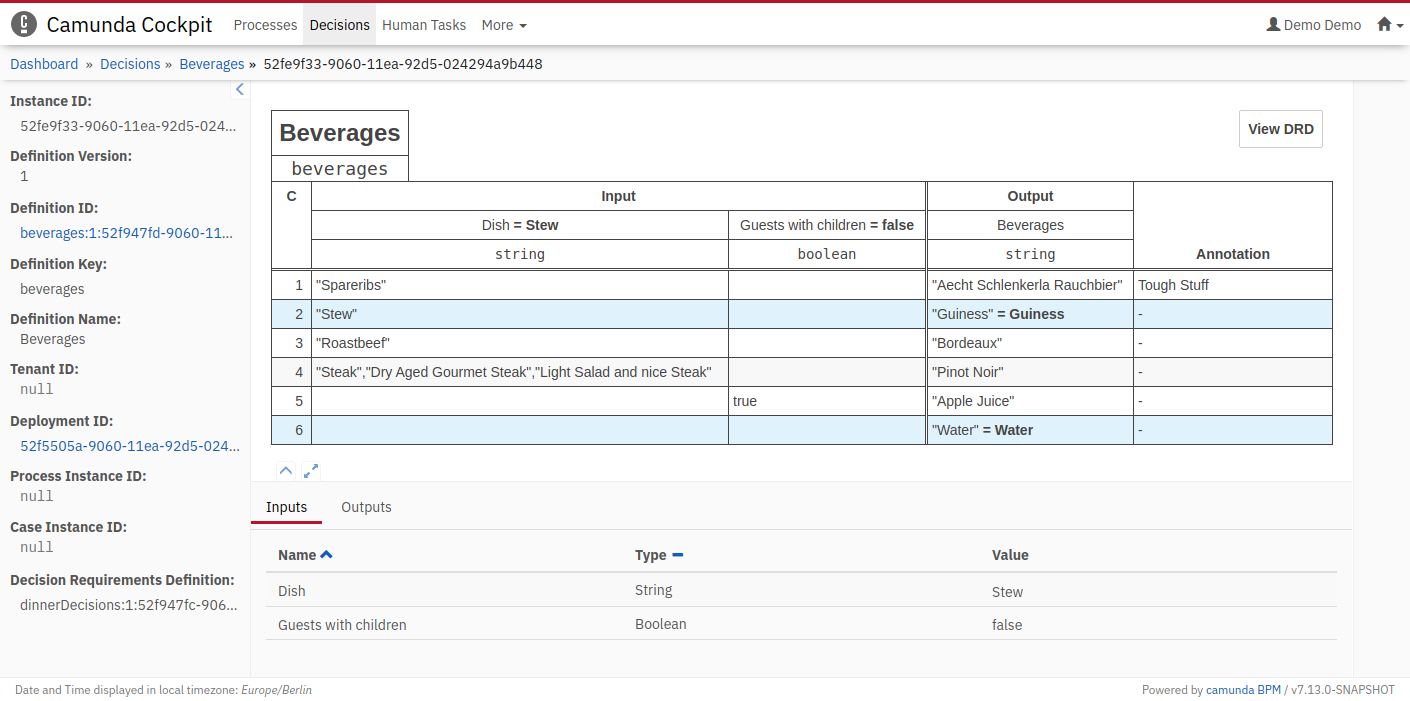
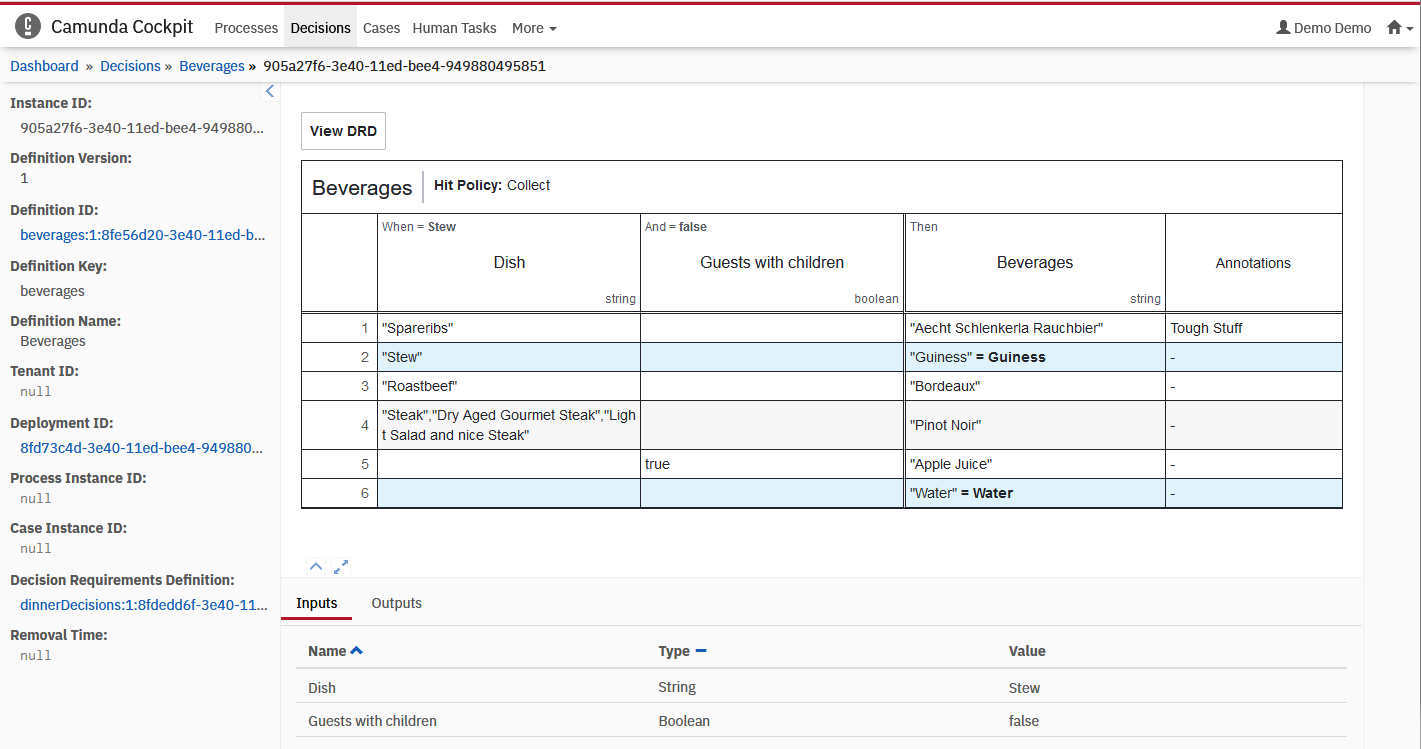
chore(get-started): update dmn guide for 7.18.0
update Cockpit screeshots to include Removal time in Decisions page

Related to CAM-14542

diff --git a/get-started/content/dmn/deploy.md b/get-started/content/dmn/deploy.md
@@ -107,7 +107,7 @@ Congratulations, you have now successfully set up a project with your first DMN 
 Next,
 
 * see how you can evaluate the decision using the [REST API](/manual/reference/rest/decision-definition/post-evaluate/),
-* learn more about DMN by reading the [DMN Reference](/manual/reference/dmn11/),
+* learn more about DMN by reading the [DMN Reference](/manual/reference/dmn/),
 * learn more about the [Decision API exposed by Camunda Process Engine](/manual/user-guide/process-engine/decisions/),
 * check how you can invoke the decision from a [BPMN Business Rule Task](/manual/reference/bpmn20/tasks/business-rule-task/),
 * Bonus Step: [Decision Requirements Graph](../drg) 

diff --git a/get-started/content/dmn/project-setup.md b/get-started/content/dmn/project-setup.md
@@ -51,7 +51,7 @@ The next step consists of setting up the Maven dependencies for your new process
   <packaging>war</packaging>
 
   <properties>
-    <camunda.version>7.17.0</camunda.version>
+    <camunda.version>7.18.0</camunda.version>
     <maven.compiler.source>1.8</maven.compiler.source>
     <maven.compiler.target>1.8</maven.compiler.target>
   </properties>
